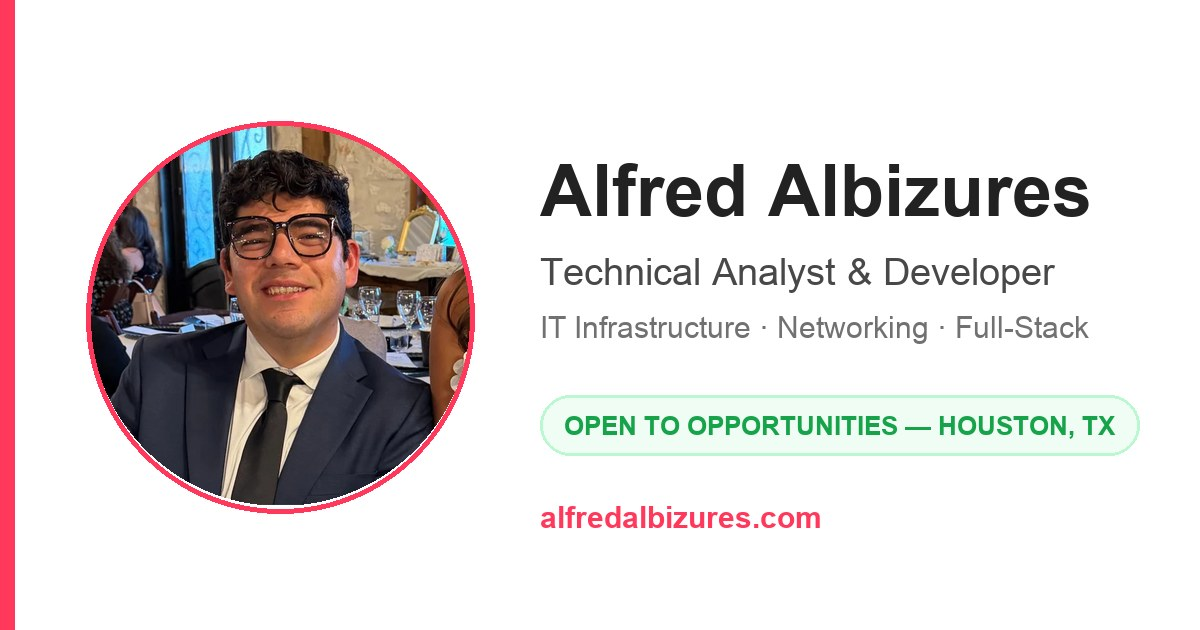
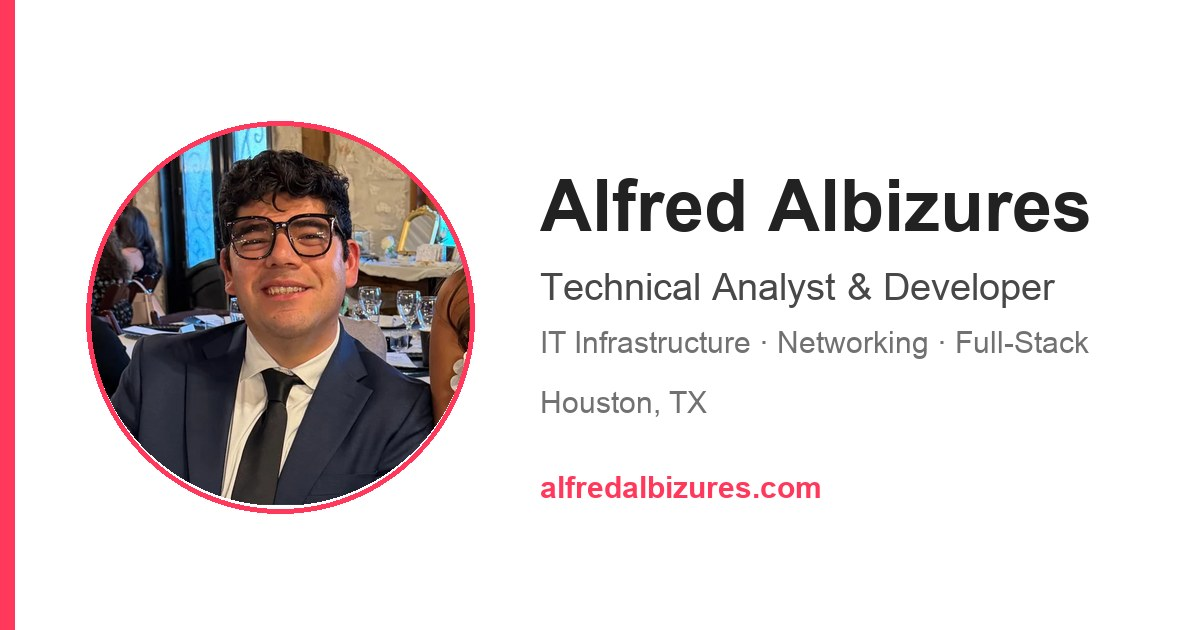
Remove open-to-opportunities badge and all leftover pill/dot badge styles

Changed region(s): [[0.4317, 0.2413, 0.925, 0.573], [0.4317, 0.6032, 0.9558, 0.7238], [0.4317, 0.754, 0.7092, 0.8444]]

diff --git a/index.html b/index.html
@@ -23,7 +23,7 @@
   <meta property="og:image"       content="https://alfredalbizures.com/og-image.jpg" />
   <meta property="og:image:width"  content="1200" />
   <meta property="og:image:height" content="630" />
-  <meta property="og:image:alt"   content="Alfred Albizures — Technical Analyst & Developer, Houston TX, open to opportunities" />
+  <meta property="og:image:alt"   content="Alfred Albizures — Technical Analyst & Developer, Houston TX" />
   <meta property="og:locale"      content="en_US" />
   <meta property="profile:first_name" content="Alfred" />
   <meta property="profile:last_name"  content="Albizures" />
@@ -260,50 +260,6 @@
     }
 
     /* LEFT */
-    .hero-badge {
-      display: inline-flex;
-      align-items: center;
-      gap: 0.5rem;
-      background: var(--red-bg);
-      color: var(--red);
-      padding: 0.4rem 1rem;
-      border-radius: 99px;
-      font-size: 0.78rem;
-      font-weight: 700;
-      margin-bottom: 1.5rem;
-      letter-spacing: 0.04em;
-      text-transform: uppercase;
-    }
-
-    .hero-badge::before {
-      content: '';
-      width: 6px; height: 6px;
-      background: var(--red);
-      border-radius: 50%;
-      animation: blink 2s ease-in-out infinite;
-    }
-
-    @keyframes blink {
-      0%, 100% { opacity: 1; }
-      50% { opacity: 0.3; }
-    }
-
-    /* Open to opportunities badge */
-    .open-badge {
-      display: inline-flex;
-      align-items: center;
-      gap: 0.5rem;
-      background: #f0fdf4;
-      color: #16a34a;
-      border: 1.5px solid #bbf7d0;
-      padding: 0.4rem 1rem;
-      border-radius: 99px;
-      font-size: 0.78rem;
-      font-weight: 700;
-      margin-bottom: 1.25rem;
-      letter-spacing: 0.03em;
-    }
-
     h1 {
       font-size: clamp(2.6rem, 5.5vw, 4.5rem);
       font-weight: 800;
@@ -461,39 +417,6 @@
       object-position: center top;
       display: block;
     }
-
-    /* Floating badge on the circle */
-    .hero-photo-badge {
-      position: absolute;
-      bottom: 1.5rem;
-      left: -1.5rem;
-      background: var(--bg);
-      border: 1px solid var(--border);
-      border-radius: 12px;
-      padding: 0.7rem 1.1rem;
-      display: flex;
-      align-items: center;
-      gap: 0.65rem;
-      box-shadow: var(--shadow-md);
-      white-space: nowrap;
-    }
-
-    .badge-dot {
-      width: 9px; height: 9px;
-      background: #22c55e;
-      border-radius: 50%;
-      flex-shrink: 0;
-      box-shadow: 0 0 0 3px rgba(34,197,94,0.2);
-      animation: pulse-dot 2s ease-in-out infinite;
-    }
-
-    @keyframes pulse-dot {
-      0%, 100% { box-shadow: 0 0 0 3px rgba(34,197,94,0.2); }
-      50% { box-shadow: 0 0 0 6px rgba(34,197,94,0.1); }
-    }
-
-    .badge-text { font-size: 0.76rem; font-weight: 700; line-height: 1.3; color: var(--text); }
-    .badge-text small { color: var(--text-3); font-weight: 400; display: block; font-size: 0.68rem; }
 
     /* ── DIVIDER ── */
     .divider {
@@ -1242,7 +1165,6 @@
       .hero-inner { grid-template-columns: 1fr; gap: 2rem; }
       .hero-photo-wrap { display: flex; justify-content: center; order: -1; }
       .hero-circle { width: 220px; height: 220px; }
-      .hero-photo-badge { left: 50%; transform: translateX(-50%); bottom: -1rem; }
       .about-grid { grid-template-columns: 1fr; }
     }
 
@@ -1330,9 +1252,6 @@
 
     <!-- LEFT: text -->
     <div class="hero-left">
-      <div class="open-badge">
-        Open to new opportunities
-      </div>
       <h1>
         Technical Analyst<br>&amp; <em>Developer</em>
       </h1>
